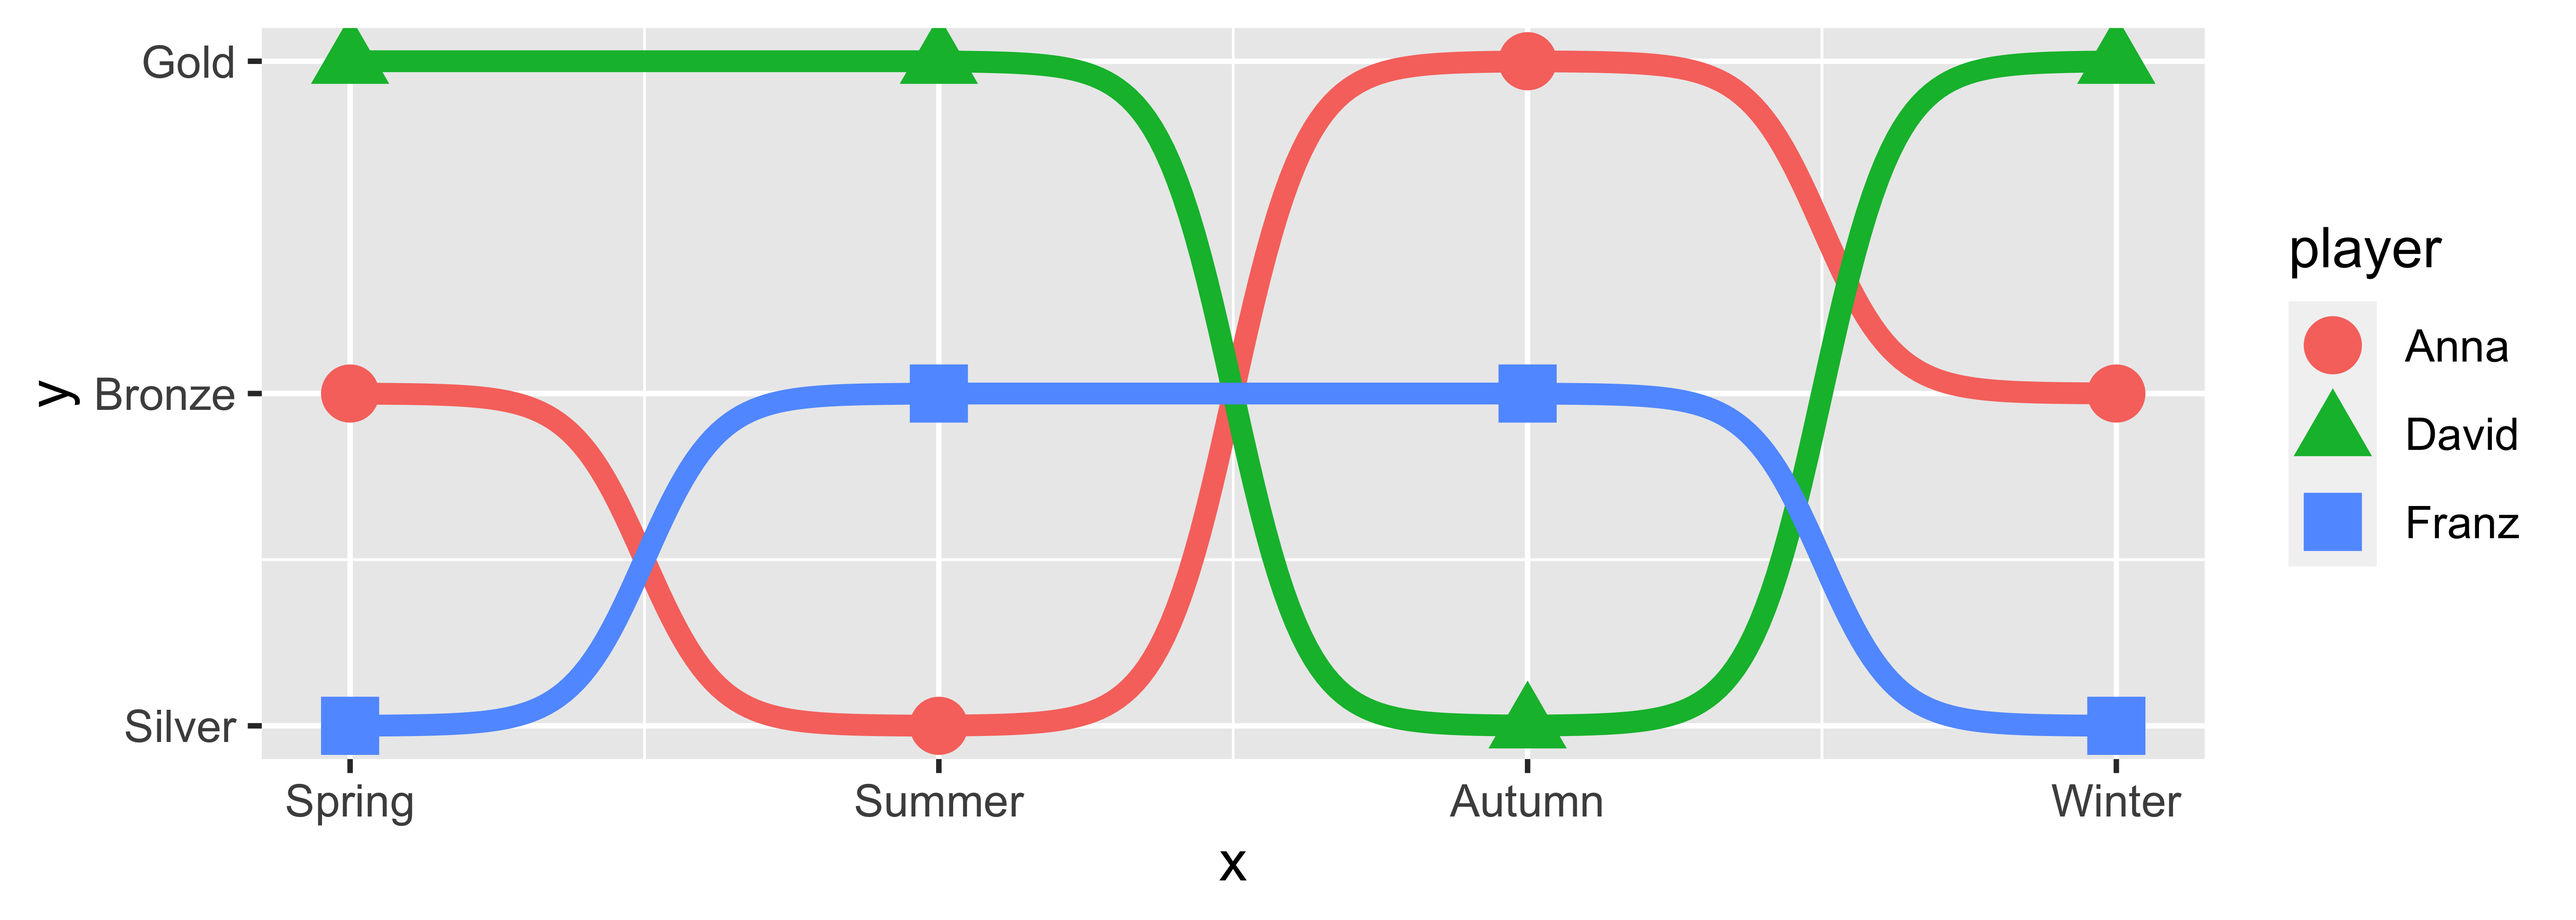
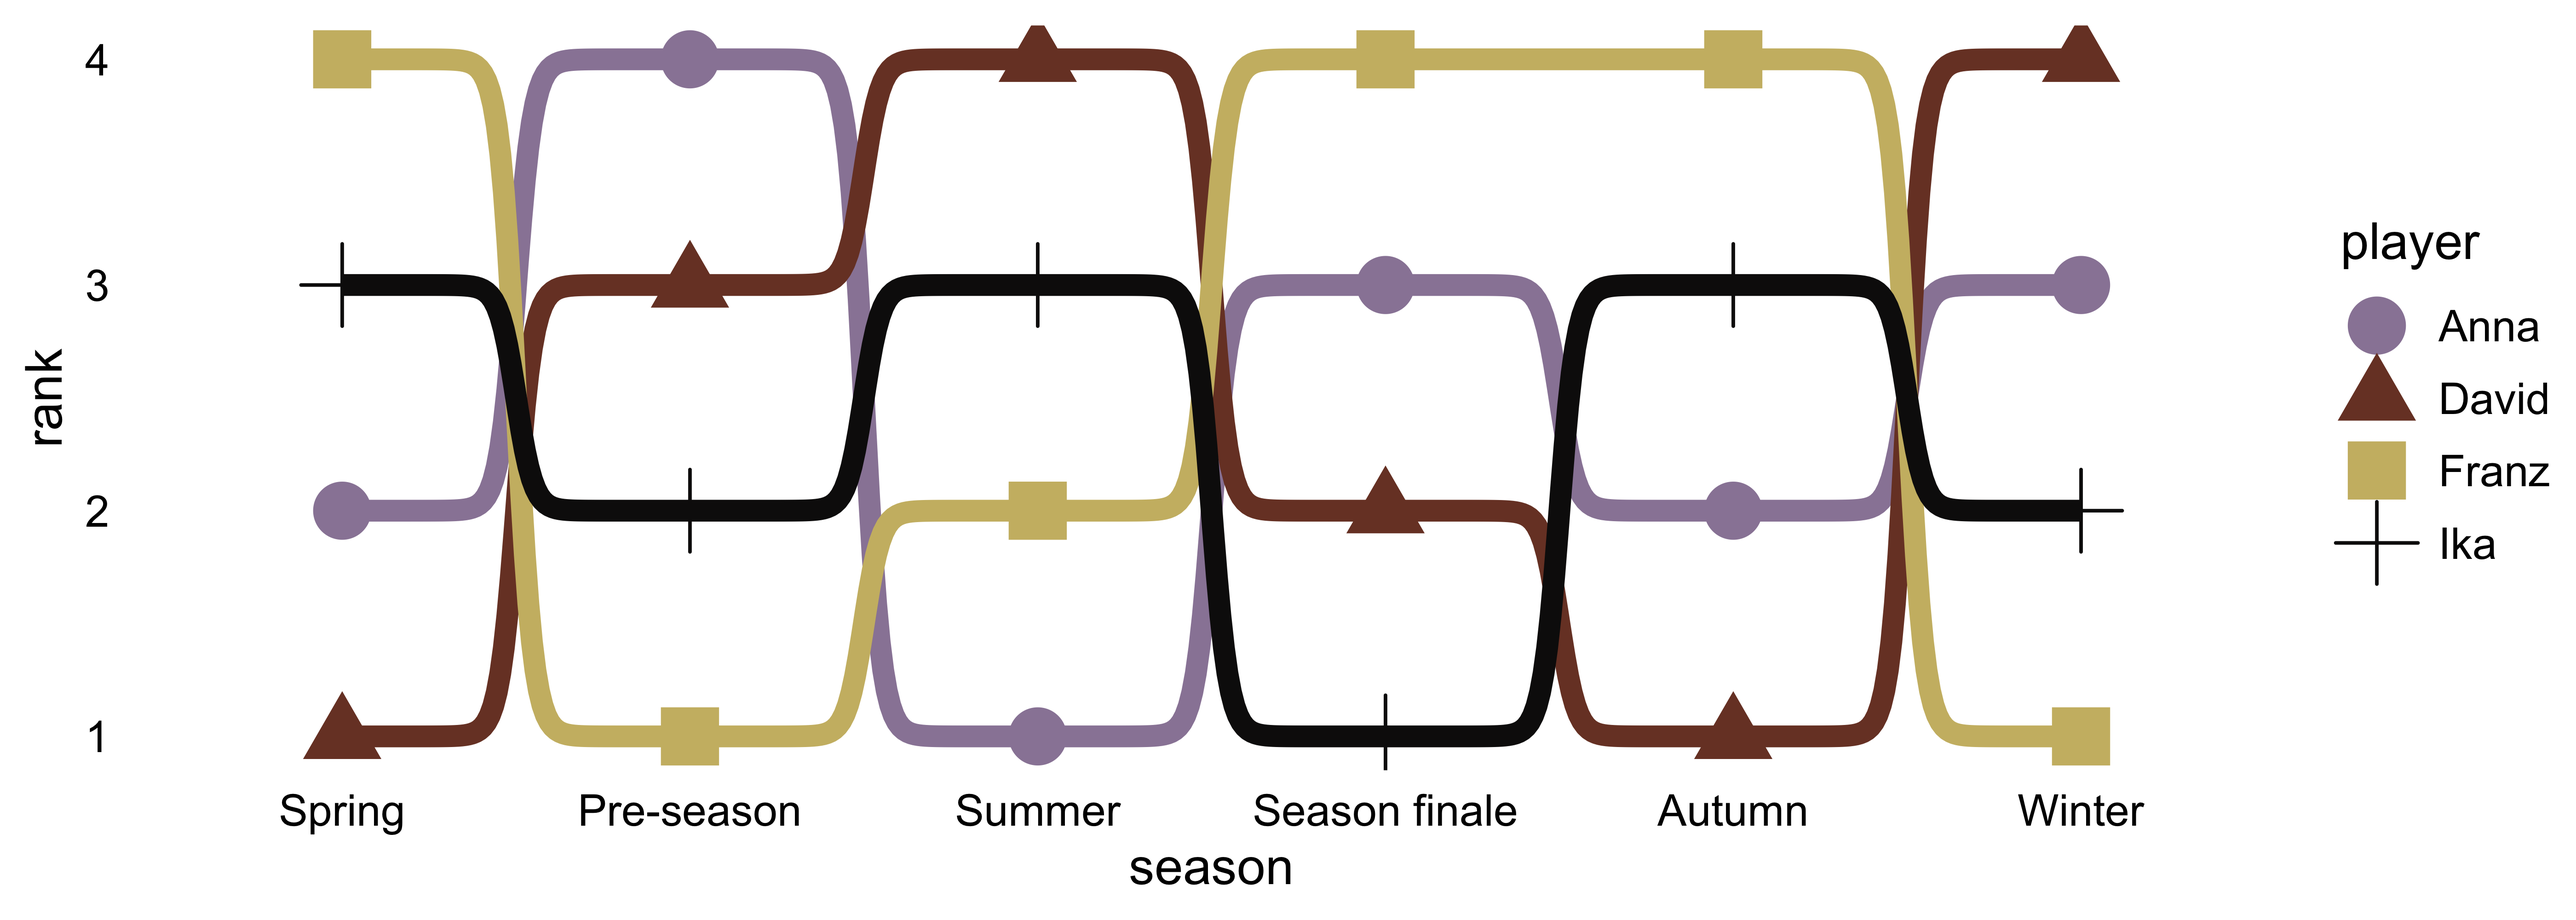
added support for discrete x axis

diff --git a/README.md b/README.md
@@ -170,62 +170,41 @@ ggplot(df, aes(year, rank, color = country)) +
 
 <img src="man/figures/README-unnamed-chunk-3-1.png" width="100%" />
 
-## geom\_bump with factors
+## geom\_bump with factors (development version only)
 
-To use `geom_bump` with factors or character axis you need to prepare
-the data frame before. You need to prepare one column for the numeric
-position and one column with the name. If you want to have
-character/factor on both y and x you need to prepare 4 columns.
+You can use `geom_bump` with factors or character as x axis. Just
+remember to keep an eye on factor order.
 
 ``` r
 # Original df
-df <- tibble(season = c("Spring", "Summer", "Autumn", "Winter", 
-                        "Spring", "Summer", "Autumn", "Winter", 
-                        "Spring", "Summer", "Autumn", "Winter"),
-             position = c("Gold", "Gold", "Bronze", "Gold",
-                          "Silver", "Bronze", "Gold", "Silver",
-                          "Bronze", "Silver", "Silver", "Bronze"),
-             player = c(rep("David", 4),
-                        rep("Anna", 4),
-                        rep("Franz", 4)))
+df <- tibble(season = c("Spring", "Pre-season", "Summer", "Season finale", "Autumn", "Winter", 
+                        "Spring", "Pre-season", "Summer", "Season finale", "Autumn", "Winter", 
+                        "Spring", "Pre-season", "Summer", "Season finale", "Autumn", "Winter",
+                        "Spring", "Pre-season", "Summer", "Season finale", "Autumn", "Winter"),
+             rank = c(1, 3, 4, 2, 1, 4,
+                      2, 4, 1, 3, 2, 3,
+                      4, 1, 2, 4, 4, 1,
+                      3, 2, 3, 1, 3, 2),
+             player = c(rep("David", 6),
+                        rep("Anna", 6),
+                        rep("Franz", 6),
+                        rep("Ika", 6)))
 
-# Create factors and numeric columns
+# Create factors and order factor
 df <- df %>% 
-  mutate(season = factor(season, 
-                         levels = c("Spring", "Summer", "Autumn", "Winter")),
-         x = as.numeric(season),
-         position = factor(position, 
-                           levels = c("Gold", "Silver", "Bronze")),
-         y = as.numeric(position))
+  mutate(season = factor(season, levels = unique(season)))
 
 # Add manual axis labels to plot
-p <- ggplot(df, aes(x, y, color = player)) +
-  geom_bump(size = 2, smooth = 8, show.legend = F) +
+ggplot(df, aes(season, rank, color = player)) +
+  geom_bump(size = 2, smooth = 20, show.legend = F) +
   geom_point(size = 5, aes(shape = player)) +
-  scale_x_continuous(breaks = df$x %>% unique(),
-                     labels = df$season %>% levels()) +
-  scale_y_reverse(breaks = df$y %>% unique(),
-                     labels = df$position %>% levels())
-p
+  theme_minimal_grid(font_size = 10, line_size = 0) +
+  theme(panel.grid.major = element_blank(),
+        axis.ticks = element_blank()) +
+  scale_color_manual(values = wes_palette(n = 4, name = "IsleofDogs1"))
 ```
 
 <img src="man/figures/README-unnamed-chunk-4-1.png" width="100%" />
-
-### And some nice theme features
-
-``` r
-p +
-  theme_minimal_grid(font_size = 14, line_size = 0) +
-  theme(panel.grid.major = element_blank(),
-        axis.ticks = element_blank()) +
-  labs(y = "Medal",
-       x = "Season",
-       color = NULL,
-       shape = NULL) +
-  scale_color_manual(values = wes_palette(n = 3, name = "IsleofDogs1"))
-```
-
-<img src="man/figures/README-unnamed-chunk-5-1.png" width="100%" />
 
 ## Feedback
 
